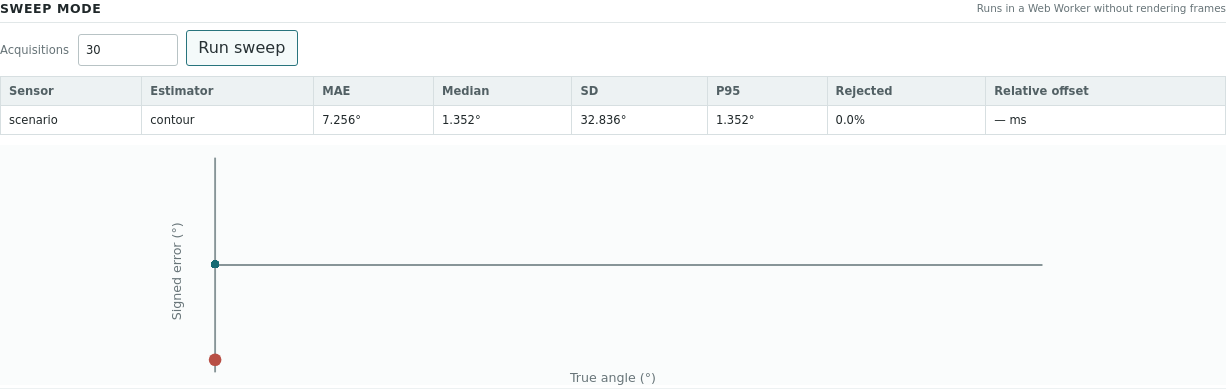
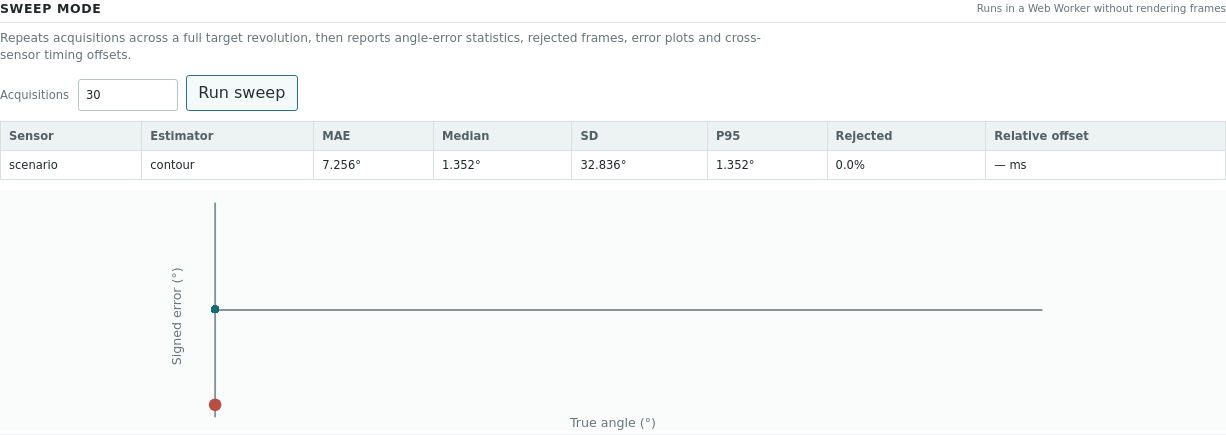
Refine simulation controls and sweep feedback

diff --git a/src/styles.css b/src/styles.css
@@ -26,11 +26,13 @@ input:focus, select:focus, button:focus-visible { outline: 2px solid #5a9ba3; ou
 .app-header { min-height: 94px; display: flex; align-items: center; justify-content: space-between; border-bottom: 1px solid #cbd5d7; }
 .app-header h1 { font-size: clamp(1.45rem, 2.1vw, 2.1rem); line-height: 1; margin: .25rem 0 0; font-weight: 620; letter-spacing: -.025em; }
 .eyebrow { color: var(--accent); text-transform: uppercase; letter-spacing: .11em; font-size: .68rem; font-weight: 700; }
-.header-status { display: flex; gap: .55rem; flex-wrap: wrap; justify-content: flex-end; }
 .brand { display: flex; align-items: center; gap: 12px; }
 .brand img { width: 52px; height: 52px; }
-.header-status span { border: 1px solid #b8c7c9; color: #526064; padding: .3rem .55rem; border-radius: 20px; font-size: .72rem; background: #f7f9f9; }
-.header-play { min-width: 74px; background: var(--accent); color: #fff; border-color: var(--accent); }
+.header-play { display: inline-flex; align-items: center; justify-content: center; gap: .45rem; min-width: 98px; min-height: 40px; background: var(--accent); color: #fff; border-color: var(--accent); font-weight: 700; }
+.header-play > span { width: 1em; line-height: 1; text-align: center; }
+.header-play:hover:not(:disabled) { background: #105963; border-color: #105963; color: #fff; }
+.header-play.is-paused { background: #fff; color: var(--accent); border-width: 2px; }
+.header-play.is-paused:hover:not(:disabled) { background: var(--accent-soft); color: #104f57; border-color: var(--accent); }
 .scenario-bar { display: flex; align-items: center; gap: .45rem; padding: 13px 0; overflow-x: auto; }
 .scenario-bar > span { color: var(--muted); font-size: .75rem; font-weight: 700; text-transform: uppercase; letter-spacing: .08em; margin-right: .25rem; }
 .scenario-bar button { white-space: nowrap; padding: .38rem .62rem; font-size: .76rem; }
@@ -152,10 +154,19 @@ input:focus, select:focus, button:focus-visible { outline: 2px solid #5a9ba3; ou
 .estimate-card > .text-button { margin-left: 10px; }
 .empty-state { grid-column: 1 / -1; min-height: 100px; border: 1px dashed #bbc6c8; display: grid; place-items: center; color: var(--muted); }
 .sweep-block { margin-top: 16px; }
+.sweep-explanation { max-width: 780px; margin: 0 0 10px; color: var(--muted); font-size: .76rem; line-height: 1.45; }
 .sweep-controls { display: flex; gap: 8px; align-items: end; }
 .sweep-controls label { color: var(--muted); font-size: .72rem; }
 .sweep-controls input { width: 100px; margin-left: 5px; }
-.progress { height: 7px; background: #dfe7e8; margin: 10px 0; overflow: hidden; }
+.sweep-progress-status { display: grid; grid-template-columns: 34px minmax(170px, auto) 1fr; align-items: center; gap: 9px; margin: 10px 0; padding: 8px 10px; border: 1px solid #d5e0e1; background: #f6f9f9; }
+.sweep-wheel { width: 32px; height: 32px; transition: transform .15s linear; }
+.sweep-wheel circle { fill: #dce8e9; stroke: var(--accent); stroke-width: 2.5; }
+.sweep-wheel .sweep-wheel-hub { fill: #c94b43; stroke: #8d3934; stroke-width: 1.5; }
+.sweep-wheel path { fill: none; stroke: var(--aperture); stroke-width: 4; stroke-linecap: round; }
+.sweep-progress-copy { display: grid; min-width: 190px; }
+.sweep-progress-copy strong { color: #324144; font-size: .76rem; }
+.sweep-progress-copy span { color: var(--muted); font-size: .68rem; font-variant-numeric: tabular-nums; }
+.progress { height: 7px; background: #dfe7e8; overflow: hidden; }
 .progress span { display: block; height: 100%; background: var(--accent); transition: width .15s; }
 .table-wrap { overflow-x: auto; margin-top: 10px; }
 table { width: 100%; border-collapse: collapse; font-size: .72rem; }
@@ -182,5 +193,7 @@ footer { color: #687579; font-size: .7rem; text-align: center; padding: 20px 0 0
   .target-preview { max-width: 260px; }
   .view-grid, .comparison-grid { grid-template-columns: 1fr; }
   .app-header { align-items: flex-start; padding: 18px 0; gap: 12px; }
-  .header-status { display: none; }
+  .header-play { min-width: 88px; }
+  .sweep-progress-status { grid-template-columns: 34px 1fr; }
+  .sweep-progress-status .progress { grid-column: 1 / -1; }
 }

diff --git a/src/ui/results/ResultsPanel.tsx b/src/ui/results/ResultsPanel.tsx
@@ -43,12 +43,29 @@ export function ResultsPanel(props: Props) {
       </div>
       <div className="sweep-block">
         <div className="subhead"><span>Sweep mode</span><small>Runs in a Web Worker without rendering frames</small></div>
+        <p className="sweep-explanation">Repeats acquisitions across a full target revolution, then reports angle-error statistics, rejected frames, error plots and cross-sensor timing offsets.</p>
         <div className="sweep-controls"><label>Acquisitions <input type="number" min="10" max="2000" value={count} onChange={(event) => setCount(Number(event.target.value))} /></label><button disabled={props.busy || selected().length === 0} onClick={() => props.onSweep(count, selected())}>Run sweep</button></div>
-        {props.sweepProgress > 0 && props.sweepProgress < 1 && <div className="progress"><span style={{ width: `${props.sweepProgress * 100}%` }} /></div>}
+        {props.sweepProgress > 0 && props.sweepProgress < 1 && <SweepProgress fraction={props.sweepProgress} total={count} />}
         {props.sweepSummaries.length > 0 && <SweepResults summaries={props.sweepSummaries} records={props.sweepRecords} />}
       </div>
       <ExportBar config={props.config} records={props.sweepRecords} onImport={props.onImport} />
     </Panel>
+  )
+}
+
+function SweepProgress({ fraction, total }: { fraction: number, total: number }) {
+  const completed = Math.min(total, Math.floor(total * fraction))
+  const percentage = Math.round(fraction * 100)
+  return (
+    <div className="sweep-progress-status" role="status" aria-label={`Sweep ${percentage}% complete`}>
+      <svg className="sweep-wheel" viewBox="0 0 44 44" aria-hidden="true" style={{ transform: `rotate(${fraction * 360}deg)` }}>
+        <circle cx="22" cy="22" r="18" />
+        <circle className="sweep-wheel-hub" cx="22" cy="22" r="5" />
+        <path d="M22 4v13M40 22H27M22 40V27" />
+      </svg>
+      <div className="sweep-progress-copy"><strong>Running sweep</strong><span>{percentage}% · {completed} of {total} acquisitions</span></div>
+      <div className="progress"><span style={{ width: `${fraction * 100}%` }} /></div>
+    </div>
   )
 }
 

diff --git a/src/sensors/library.ts b/src/sensors/library.ts
@@ -9,7 +9,7 @@ export const SENSOR_LIBRARY: SensorDefinition[] = [
   { ...defaults, id: 'hdl-32e', name: 'Velodyne HDL-32E', architecture: 'rotating-head', standOffM: 1, horizontalFovDeg: 360, verticalFovDeg: 41.3, channelCount: 32, horizontalResolutionDeg: 0.18, headRateHz: 10 },
   { ...defaults, id: 'os1-64', name: 'Ouster OS1-64', architecture: 'rotating-head', standOffM: 1, horizontalFovDeg: 360, verticalFovDeg: 45, channelCount: 64, horizontalResolutionDeg: 0.18, headRateHz: 10 },
   { ...defaults, id: 'os1-128', name: 'Ouster OS1-128', architecture: 'rotating-head', standOffM: 1, horizontalFovDeg: 360, verticalFovDeg: 45, channelCount: 128, horizontalResolutionDeg: 0.18, headRateHz: 10 },
-  { ...defaults, id: 'livox-avia', name: 'Livox Avia', architecture: 'prism', standOffM: 1, horizontalFovDeg: 70.4, verticalFovDeg: 77.2, prismRateAHz: 173.3, prismRateBHz: -211.7, wedgeADeg: 5.5, wedgeBDeg: 7, sampleRateHz: 240000, timestampConvention: 'window-start' },
+  { ...defaults, id: 'livox-avia', name: 'Livox Avia', architecture: 'prism', standOffM: 1, horizontalFovDeg: 70.4, verticalFovDeg: 77.2, prismRateAHz: 173.3, prismRateBHz: -211.7, wedgeADeg: 5.9, wedgeBDeg: 6.6, sampleRateHz: 240000, timestampConvention: 'window-start' },
   { ...defaults, id: 'livox-horizon', name: 'Livox Horizon', architecture: 'prism', standOffM: 1.2, horizontalFovDeg: 81.7, verticalFovDeg: 25.1, prismRateAHz: 89.1, prismRateBHz: -113.3, wedgeADeg: 6, wedgeBDeg: 4, sampleRateHz: 240000 },
   { ...defaults, id: 'livox-tele15', name: 'Livox Tele-15', architecture: 'prism', standOffM: 1.82, horizontalFovDeg: 14.5, verticalFovDeg: 16.2, prismRateAHz: 75.7, prismRateBHz: -109.9, wedgeADeg: 3, wedgeBDeg: 3.5, sampleRateHz: 240000 },
   { ...defaults, id: 'blickfeld-cube1', name: 'Blickfeld Cube 1', architecture: 'micro-mirror', standOffM: 1, horizontalFovDeg: 72, verticalFovDeg: 30, sampleRateHz: 97000, fastAxisHz: 137, slowAxisHz: 0.7 },

diff --git a/src/ui/shared/plots.ts b/src/ui/shared/plots.ts
@@ -27,11 +27,6 @@ export const drawSamples = (
   const scale = Math.min(width, height) * 0.42 / (target.outerDiameterMm / 2)
   const cx = width / 2
   const cy = height / 2
-  const stride = Math.max(1, Math.ceil(frame.classes.length / 20_000))
-  for (let index = 0; index < frame.classes.length; index += stride) {
-    context.fillStyle = CLASS_COLOURS[frame.classes[index] as keyof typeof CLASS_COLOURS]
-    context.fillRect(cx + frame.xMm[index] * scale - 1, cy - frame.yMm[index] * scale - 1, 2.2, 2.2)
-  }
   context.strokeStyle = '#89969a'
   context.lineWidth = 1
   context.beginPath()
@@ -41,7 +36,16 @@ export const drawSamples = (
   context.beginPath()
   context.arc(cx, cy, hubRadiusSensorPixels(target, scale), 0, Math.PI * 2)
   context.fill()
-  context.strokeStyle = '#7f302c'; context.stroke()
+  const stride = Math.max(1, Math.ceil(frame.classes.length / 20_000))
+  for (let index = 0; index < frame.classes.length; index += stride) {
+    context.fillStyle = CLASS_COLOURS[frame.classes[index] as keyof typeof CLASS_COLOURS]
+    context.fillRect(cx + frame.xMm[index] * scale - 1, cy - frame.yMm[index] * scale - 1, 2.2, 2.2)
+  }
+  context.strokeStyle = '#7f302c'
+  context.lineWidth = 1.5
+  context.beginPath()
+  context.arc(cx, cy, hubRadiusSensorPixels(target, scale), 0, Math.PI * 2)
+  context.stroke()
   const estimates = estimate ? (Array.isArray(estimate) ? estimate : [estimate]) : []
   const truth = estimates[0]
   const colours = { contour: '#c94b43', geometric: '#176b75' }

diff --git a/src/tests/e2e/app.spec.ts b/src/tests/e2e/app.spec.ts
@@ -7,6 +7,10 @@ test('all panels render, rotation runs, and both estimators return output', asyn
   await page.goto('/rotating-target-calibration-studio/')
   await expect(page.locator('[data-panel]')).toHaveCount(6)
   await expect(page.locator('.brand img')).toBeVisible()
+  const headerControl = page.locator('.header-play')
+  await expect(headerControl).toHaveText(/Pause/)
+  await headerControl.hover()
+  expect(await headerControl.evaluate((button) => getComputedStyle(button).color)).toBe('rgb(255, 255, 255)')
   await expect(page.getByTestId('three-scene')).toBeVisible()
   await expect(page.getByLabel('FOV opacity')).toHaveValue('0.04')
   const angle = page.getByLabel('Revolution angle')
@@ -23,7 +27,9 @@ test('all panels render, rotation runs, and both estimators return output', asyn
   await page.getByRole('button', { name: 'Aperture ablation' }).click()
   await page.getByLabel('Geometric boundary fit').uncheck()
   await page.getByLabel('Acquisitions').fill('30')
+  await expect(page.locator('.sweep-explanation')).toContainText('full target revolution')
   await page.getByRole('button', { name: 'Run sweep' }).click()
+  await expect(page.locator('.sweep-progress-status')).toContainText(/\d+ of 30 acquisitions/)
   await expect(page.locator('.table-wrap')).toBeVisible({ timeout: 45_000 })
   await page.locator('.sweep-block').screenshot({ path: 'docs/sweep-results.png' })
   expect(errors).toEqual([])

diff --git a/src/App.tsx b/src/App.tsx
@@ -118,7 +118,15 @@ export default function App() {
     <div className="app-shell">
       <header className="app-header">
         <div className="brand"><img src={`${import.meta.env.BASE_URL}app-icon.svg`} alt="" /><div><span className="eyebrow">Temporal calibration laboratory</span><h1>Rotating Target Calibration Studio</h1></div></div>
-        <div className="header-status"><span>Simulation only</span><span>1.00× real time</span><button className="header-play" onClick={() => set('playing', !config.playing)}>{config.playing ? 'Pause' : 'Play'}</button></div>
+        <button
+          className={`header-play ${config.playing ? 'is-playing' : 'is-paused'}`}
+          type="button"
+          aria-pressed={config.playing}
+          onClick={() => set('playing', !config.playing)}
+        >
+          <span aria-hidden="true">{config.playing ? 'Ⅱ' : '▶'}</span>
+          {config.playing ? 'Pause' : 'Play'}
+        </button>
       </header>
       <nav className="scenario-bar" aria-label="Preset scenarios">
         <span>Scenarios</span>

diff --git a/src/tests/sampling.test.ts b/src/tests/sampling.test.ts
@@ -115,6 +115,9 @@ describe('scan geometry', () => {
     }
     expect(verticalCrossings).toBeGreaterThan(35)
     expect(occupied.size).toBeGreaterThan(500)
+    let minimumRadius = Number.POSITIVE_INFINITY
+    for (const radius of frame.radiusMm) minimumRadius = Math.min(minimumRadius, radius)
+    expect(minimumRadius).toBeLessThan(DUAL_APERTURE.hubRadiusMm)
   })
 
   it('solid-state acquisitions have identical fixed positions', () => {

diff --git a/VALIDATION_REPORT.md b/VALIDATION_REPORT.md
@@ -24,7 +24,7 @@ Validated on 6 September 2026. Sampling is derived from scan geometry: no workin
 | All 17 built-ins load, fit at default stand-off and generate frames | 17/17 | Pass |
 | Angular target extent at doubled stand-off | 1.979–2.000× reduction | Pass |
 | Puck, array, rotating mirror and camera area scaling | 3.875–4.008× fewer band rays | Pass |
-| Prism area scaling | 3.646× fewer | Pass within finite-pattern tolerance |
+| Prism area scaling | Avia: 1.890× fewer | Pass within finite-pattern tolerance |
 | Micro-mirror area scaling | 1.856× fewer | **Does not meet ≈4×** |
 | Single-plane scaling | 2.000× fewer | **Does not meet ≈4×; expected for a line scan** |
 | Direct ring enumeration | 4, 16 and 32-channel cases match | Pass |
@@ -35,6 +35,7 @@ Validated on 6 September 2026. Sampling is derived from scan geometry: no workin
 | Consecutive prism positions | Different | Pass |
 | Consecutive fixed-array positions | Identical | Pass |
 | Avia 100 ms trajectory complexity | More than 35 vertical crossings and more than 500 occupied spatial bins | Pass |
+| Avia centre coverage | Minimum ray radius is inside the 50 mm hub | Pass |
 
 The requested universal 4× band-count rule is not a geometry invariant for every finite non-uniform scan. The micro-mirror illuminates different portions of its pattern within a finite window, and a one-dimensional scanner scales with target diameter rather than area. These discrepancies are reported rather than tuning scan parameters to force a ratio.
 
@@ -45,7 +46,7 @@ The requested universal 4× band-count rule is not a geometry invariant for ever
 | LSLiDAR C4 | 222 | LSLiDAR C8 | 552 |
 | Velodyne Puck Hi-Res | 888 | Velodyne HDL-32E | 1,742 |
 | Ouster OS1-64 | 3,246 | Ouster OS1-128 | 6,526 |
-| Livox Avia | 3,916 | Livox Horizon | 4,205 |
+| Livox Avia | 3,701 | Livox Horizon | 4,205 |
 | Livox Tele-15 | 12,832 | Blickfeld Cube 1 | 1,435 |
 | Hesai FT120 | 600 | Livox Mid-360 | 372 |
 | Single-plane scanner | 180 | FLIR Blackfly S | 103,276 |
@@ -87,7 +88,9 @@ These values are not assertions and are not used as sampler inputs.
 | Production build | Pass |
 | Main application chunk reduced from about 1,023 kB to about 190 kB | Pass |
 | Three-dimensional renderer emitted as a lazy chunk | Pass |
-| Browser interaction, all six panels and geometry edits | 2/2 checks pass |
+| Browser interaction, all six panels and geometry edits | 3/3 checks pass |
+| Header Play/Pause legibility | White label retained in hover state | Pass |
+| Sweep progress feedback | Rotating target glyph, percentage and completed/total count render during work | Pass |
 | Three-sensor 60-second run | Pass — non-zero live frames maintained; zero console errors |
 | Ten-second README demonstration capture | 50 frames, 867 × 600 px, 2.4 MB | Pass |
 

diff --git a/DECISIONS.md b/DECISIONS.md
@@ -11,6 +11,9 @@ This file records choices made where the specification allowed or required an im
 | Sampling density | Working-band count is computed only by classifying generated scan rays. The schema contains no nominal band count, target-span fraction or ring-count calibration field. |
 | Scan architectures | Heads enumerate channel elevation by azimuth, prisms sum two rotating wedge deflections, micro-mirrors combine a sinusoidal fast axis with a slow ramp, arrays enumerate a fixed angular grid, rotating mirrors combine emitters with mirror azimuth, and cameras enumerate pinhole pixels. |
 | Prism visual fidelity | Prism deflections are normalised to each sensor's stated horizontal and vertical field of view. Higher counter-rotation rates produce dense multi-lobed coverage within a 100 ms frame while acquisition-dependent phases keep consecutive frames distinct. Rates are simulation parameters, not claimed internal motor specifications. |
+| Avia centre coverage | The Avia prism pair uses closely matched deflection magnitudes so opposing prism vectors sweep through the full hub region. The previous larger mismatch imposed an artificial gap outside the hub; exact equality also made the ideal trajectory unrealistically singular at the optical axis. The sensor projection draws the red analysis-exclusion hub beneath samples, making those rays visible while continuing to exclude them from estimation. |
+| Simulation control | The header contains one stateful, high-contrast Play/Pause control. Redundant simulation and real-time chips were removed; the scene view retains its compact real-time indicator where it has direct context. |
+| Sweep feedback | Long sweeps show a compact target glyph rotated by completed fraction, exact percentage, completed/total acquisitions and a progress bar. The indicator exists only while work is active so completed results remain uncluttered. |
 | Single-plane scanner | The one-dimensional scan is retained as an explicit architecture, but the geometric estimator rejects it before optimisation because it cannot constrain two-dimensional aperture boundaries. |
 | Non-repeating prism phase | Acquisition index advances an irrational-like phase, ensuring successive prism acquisitions do not start at the same rosette point. |
 | Sample timing | Moving scanners advance observation time with scan order. Global-shutter camera pixels share the exposure midpoint; rolling rows advance from the end of exposure through readout. Reported timestamp convention remains separate from those observation times. |

diff --git a/PUBLICATION_CHECK.md b/PUBLICATION_CHECK.md
@@ -13,7 +13,7 @@ These checks were repeated before the current release commit on 6 September 2026
 | 7 | Attribution and commit trailers | Case-insensitive prohibited-attribution scan; pre-commit log inspection | Pass — no prohibited reference or co-author trailer in tracked content or history |
 | 8 | Measurement data | Extension scan plus staged-content review | Pass — no bag, point-cloud, CSV, measurement, or copied results file is tracked; numbers are specification constants or simulation parameters |
 | 9 | External publication material | Staged document and source review | Pass — no external publication, section number, citation, manuscript text, or results table is referenced |
-| 10 | Independent history and author | `git log --all` and repository-local identity inspection | Pass — two local project commits, both authored solely by Pasindu Ranasinghe using the supplied UNSW email address |
+| 10 | Independent history and author | `git log --all` and repository-local identity inspection | Pass — all four existing project commits are authored solely by Pasindu Ranasinghe using the supplied UNSW email address; the staged release uses the same local identity |
 
 Additional checks:
 

diff --git a/README.md b/README.md
@@ -52,6 +52,8 @@ npm run preview
 - Configuration JSON import/export and a persistent custom sensor builder.
 - Six one-click teaching and validation scenarios.
 
+Sweep mode repeats the selected sensor acquisitions across one full target revolution without animating every frame. It summarises angle accuracy, estimator rejections and relative timing offsets, making systematic behaviour easier to see than in a single paused frame.
+
 ## Preset scenarios
 
 - **Sparse ring failure:** demonstrates contour rejection on four scan rings.
